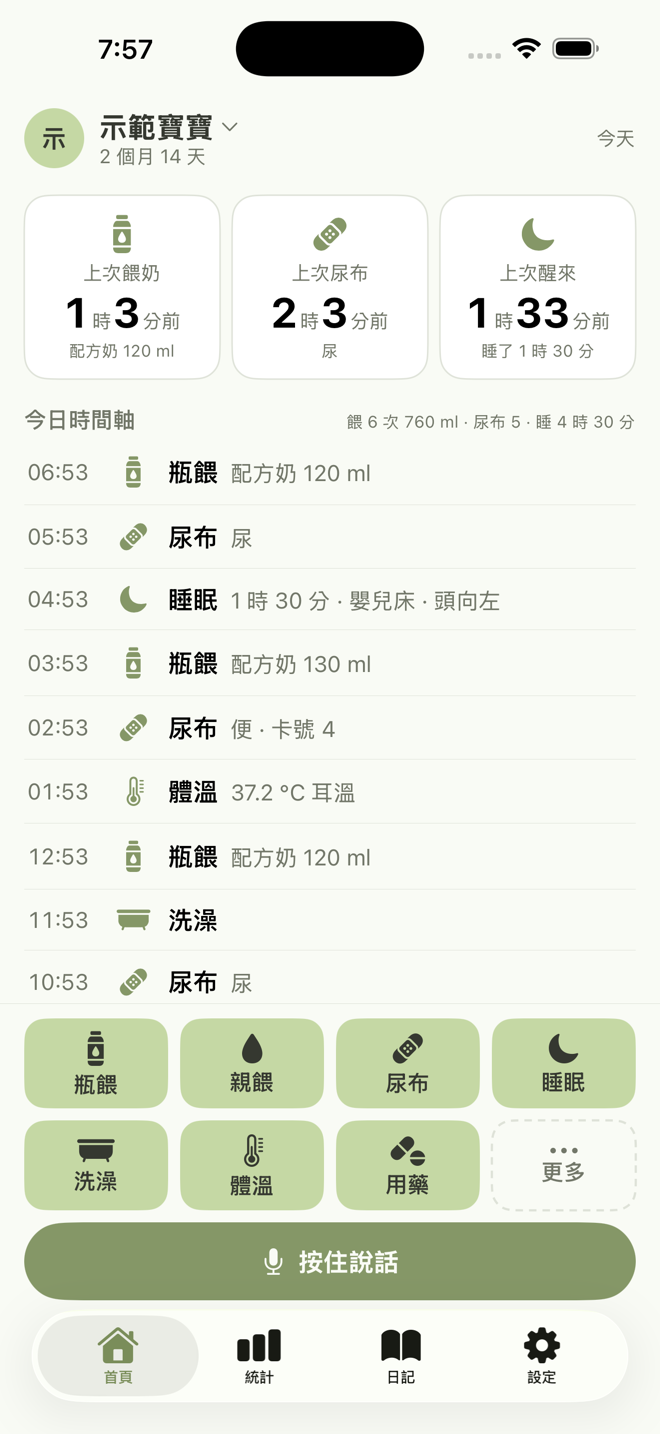
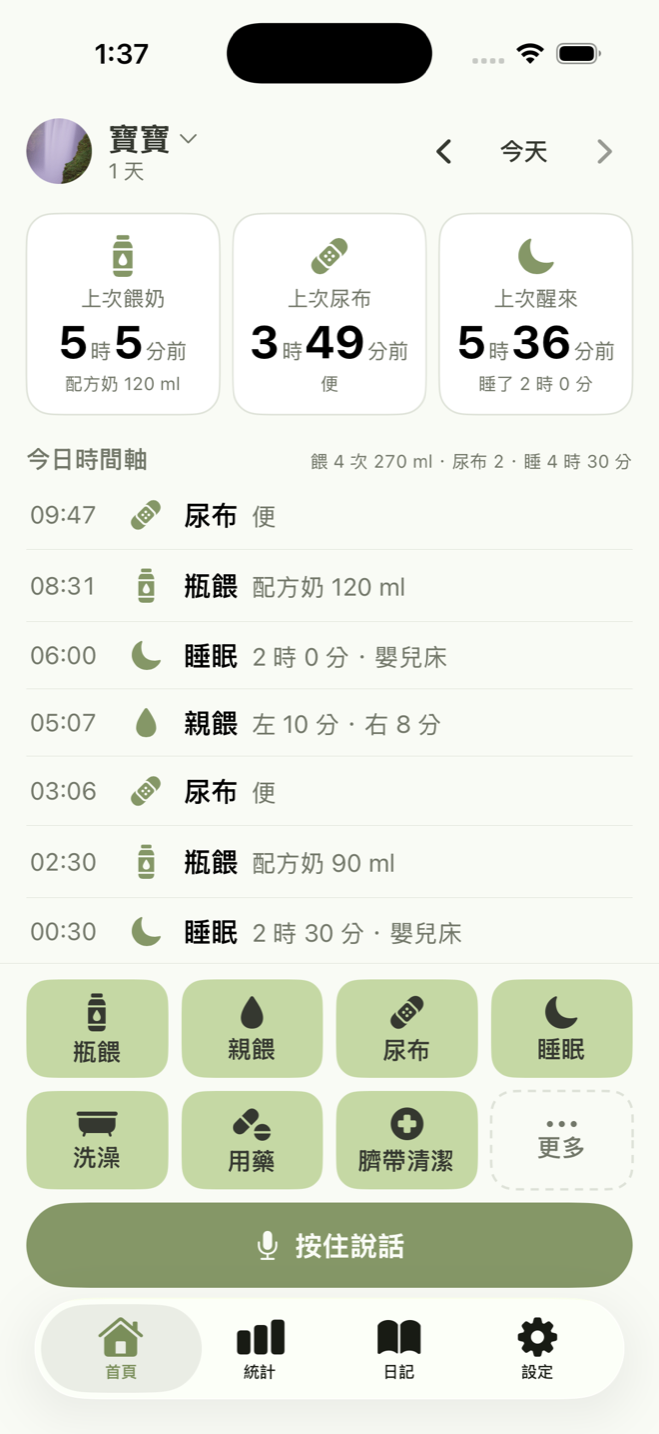
Landing page: day switching on Home, Week table in Stats, English UI available

diff --git a/index.html b/index.html
@@ -55,7 +55,7 @@
 <body>
 <header>
   <a class="brand" href="./"><img src="assets/icon.png" alt="Maobao"> Maobao</a>
-  <nav><a href="#start">開始</a><a href="#log">記錄</a><a href="#remind">提醒</a><a href="#share">共記</a><a href="#faq">常見問題</a><a href="support.html">支援</a><a href="privacy.html">隱私</a></nav>
+  <nav><a href="#start">開始</a><a href="#log">記錄</a><a href="#stats">統計</a><a href="#remind">提醒</a><a href="#share">共記</a><a href="#faq">常見問題</a><a href="support.html">支援</a><a href="privacy.html">隱私</a></nav>
 </header>
 
 <div class="hero">
@@ -98,7 +98,9 @@
       <h3>更多</h3>
       <p>第 8 格「更多」放不常用的：副食品、成長、疫苗、就醫、備註、活動。</p>
       <h3>狀態卡與時間軸</h3>
-      <p>上方三張卡永遠顯示上次餵奶、上次尿布、上次醒來距今多久；下面是今天的時間軸，點任一筆可以改時間、內容、加照片，或刪到垃圾桶（可救回）。</p>
+      <p>上方三張卡永遠顯示上次餵奶、上次尿布、上次醒來距今多久；下面是今天的時間軸，點任一筆可以改時間、內容、加照片，或刪到垃圾桶（可救回）。時間軸下面接著「昨天」，半夜剛過 12 點也不會一片空白。</p>
+      <h3>看昨天、前天</h3>
+      <p>右上角「‹ 今天 ›」一天一天往前翻，點日期可以挑日曆，或在時間軸上左右滑。看的不是今天時日期會用鵝黃底標示；這時新增一筆會自動跳回今天。正在看今天時跨過午夜會自動翻到新的一天。</p>
     </div>
     <img src="assets/01-home.png" alt="首頁">
   </div>
@@ -156,6 +158,13 @@
       <p>體重、身長、頭圍分別畫在 WHO 0–24 個月的 3／15／50／85／97 百分位曲線上，最新一點鵝黃圈，寫「約第 N 百分位」。<strong>只呈現、不判定</strong>；落在第 3–97 百分位之間都屬正常範圍，請於健檢時與醫師討論。點圖上的點或下方列表可以改那一筆。早產寶寶用矯正月齡。</p>
     </div>
     <img src="assets/03-growth.png" alt="生長曲線">
+  </div>
+  <div class="step">
+    <div>
+      <h3>週表</h3>
+      <p>統計分頁的「週表」把一週攤開成一頁：上面是<strong>作息時間格</strong>（橫軸週一到週日、縱軸 0–24 時），睡眠畫成色塊、餵奶與尿布是小點、發燒與用藥有記號，幾點睡、幾點餵一眼看出規律；下面是<strong>每日總表</strong>，一列一天：餵奶次數與 ml、親餵時長、尿布濕／便、睡眠總時數、最高體溫、用藥次數，右上角可以勾掉不想看的欄。左右翻上一週、下一週，分享成 PDF（A4 橫向）或圖片，回診拿給醫師、或傳給另一半都方便。</p>
+    </div>
+    <img src="assets/07-week.png" alt="週表：作息時間格與每日總表">
   </div>
 </section>
 
@@ -221,8 +230,8 @@
 <section id="english" class="en">
   <h2>In English</h2>
   <p><strong>Maobao</strong> is a baby-care log for parents, built so you never mis-tap at 3 a.m. Big one-tap buttons for bottle, nursing timer, diapers, sleep timer, bath, temperature and medication; long-press to repeat the last entry. Hold to talk and one sentence logs two entries, with speech recognition running entirely on your phone.</p>
-  <p>Stats and WHO growth curves shown without judgement; reminders for medication (including "after poop" / "after bath" ointments), next feed, vaccines and check-ups, and custom reminders; lock-screen Live Activity and widgets; share a baby with a partner by invite code with instant sync and optional push notifications; photo wall, one-page visit summary PDF, CSV and backup export. No account needed until you share. Six color themes and matching app icons.</p>
-  <p>The app interface is currently in Traditional Chinese; an English interface is in progress. <a href="privacy.html#en">Privacy policy</a> · <a href="support.html">Support</a></p>
+  <p>Swipe back on Home to see yesterday and earlier days. Stats include a Week table: a 7-day rhythm grid (when baby slept and fed) plus daily totals, flip back a week, share as PDF or image. Stats and WHO growth curves shown without judgement; reminders for medication (including "after poop" / "after bath" ointments), next feed, vaccines and check-ups, and custom reminders; lock-screen Live Activity and widgets; share a baby with a partner by invite code with instant sync and optional push notifications; photo wall, one-page visit summary PDF, CSV and backup export. No account needed until you share. Six color themes and matching app icons.</p>
+  <p>The interface is available in Traditional Chinese and English. <a href="privacy.html#en">Privacy policy</a> · <a href="support.html">Support</a></p>
 </section>
 
 </main>
